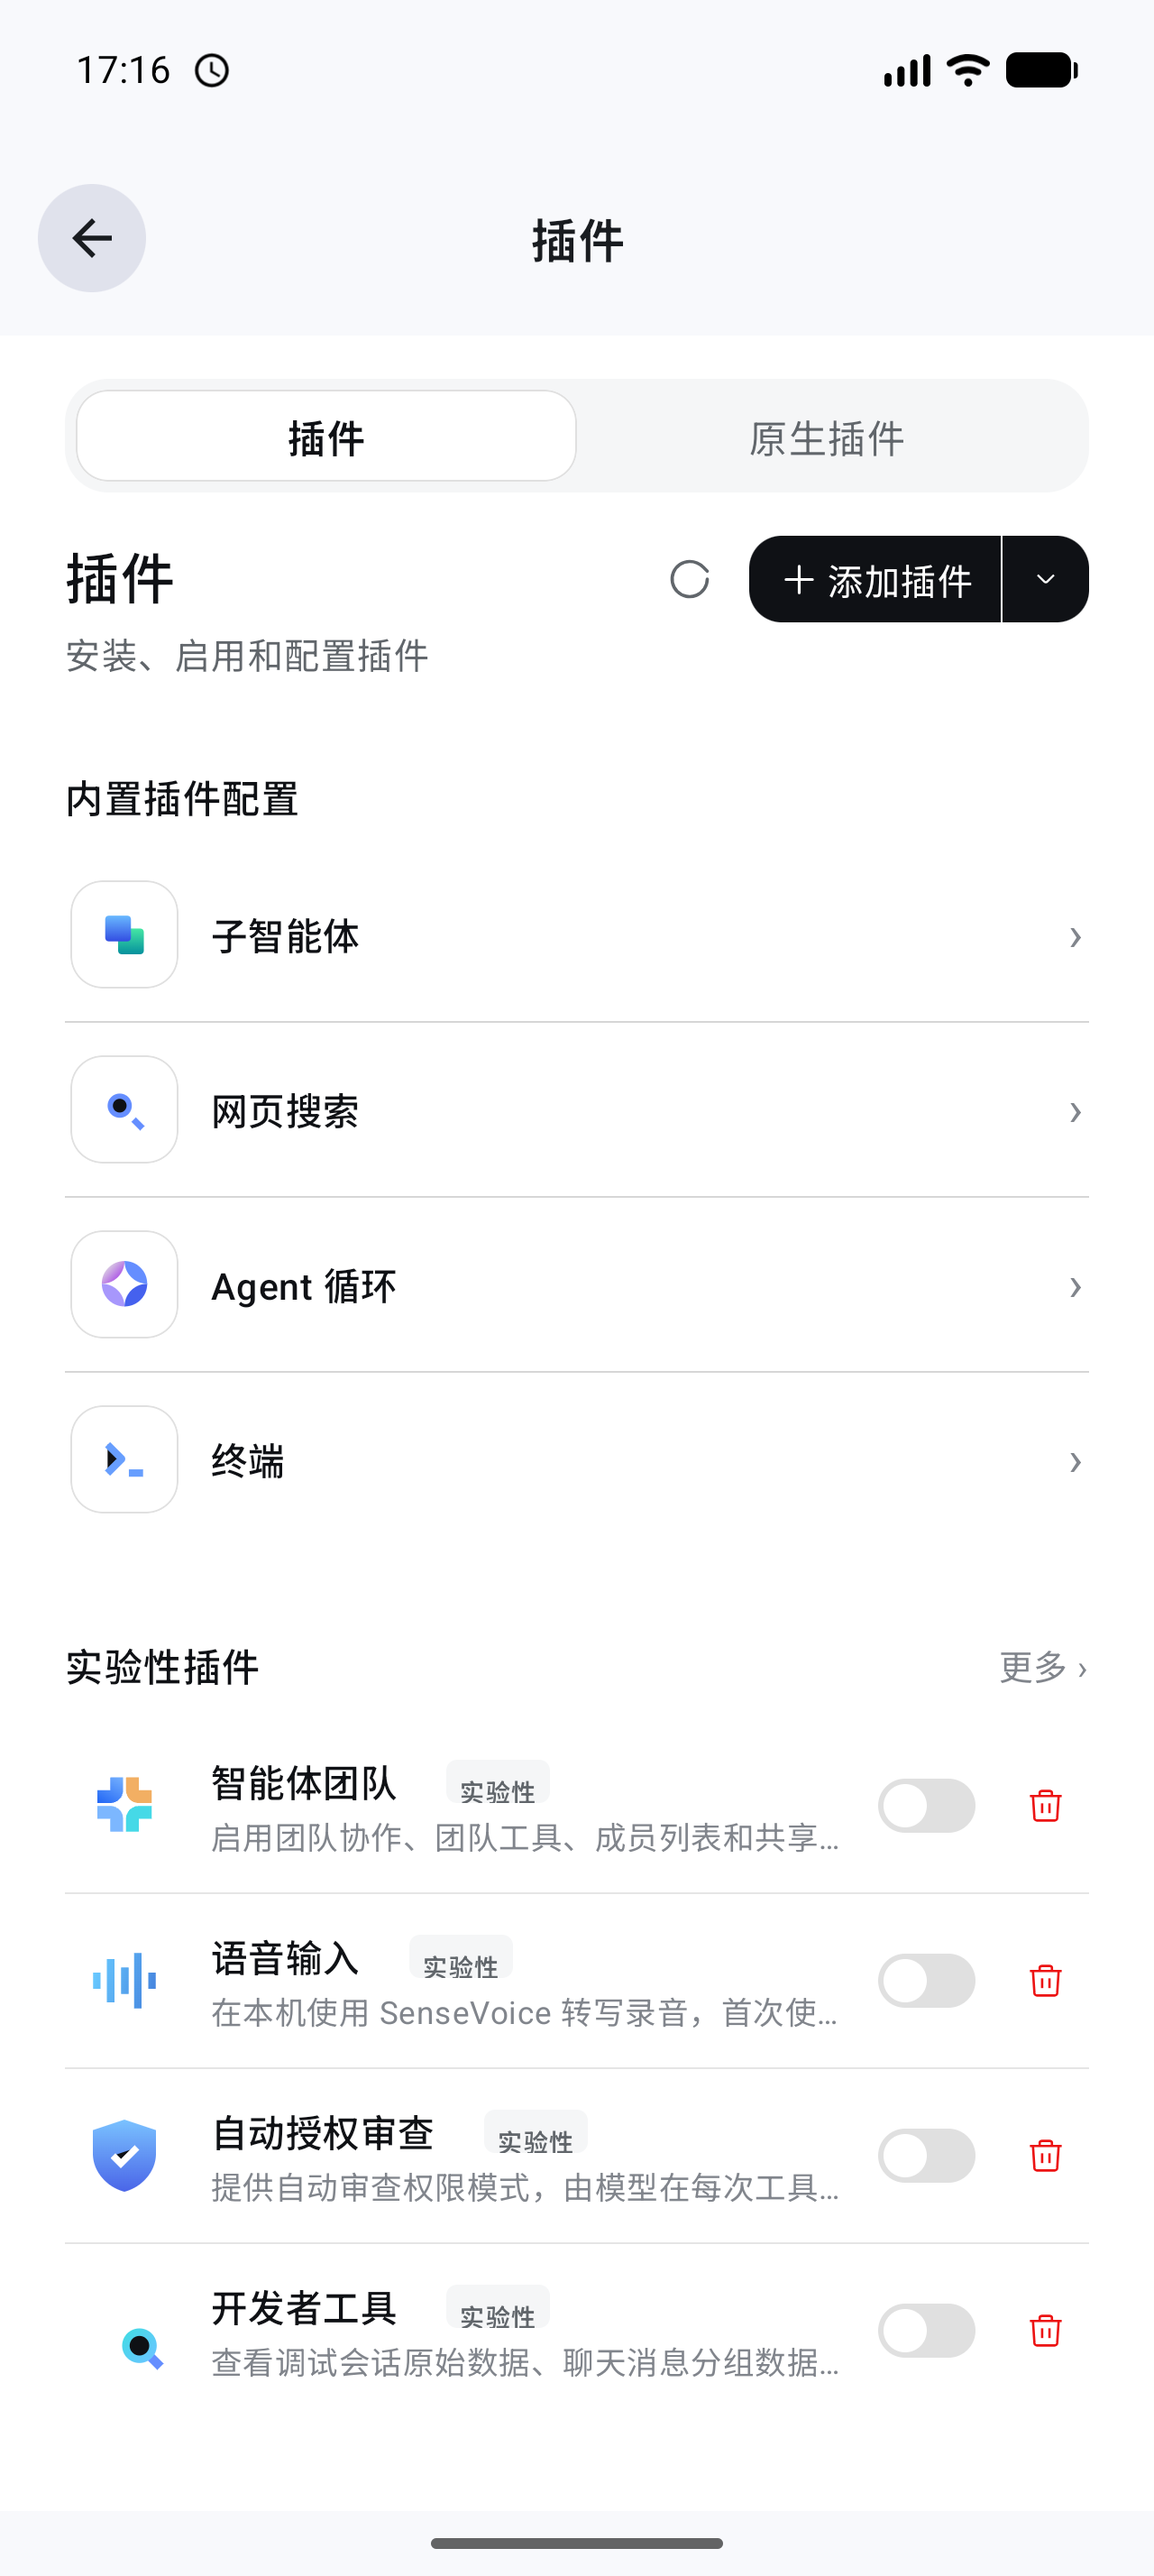
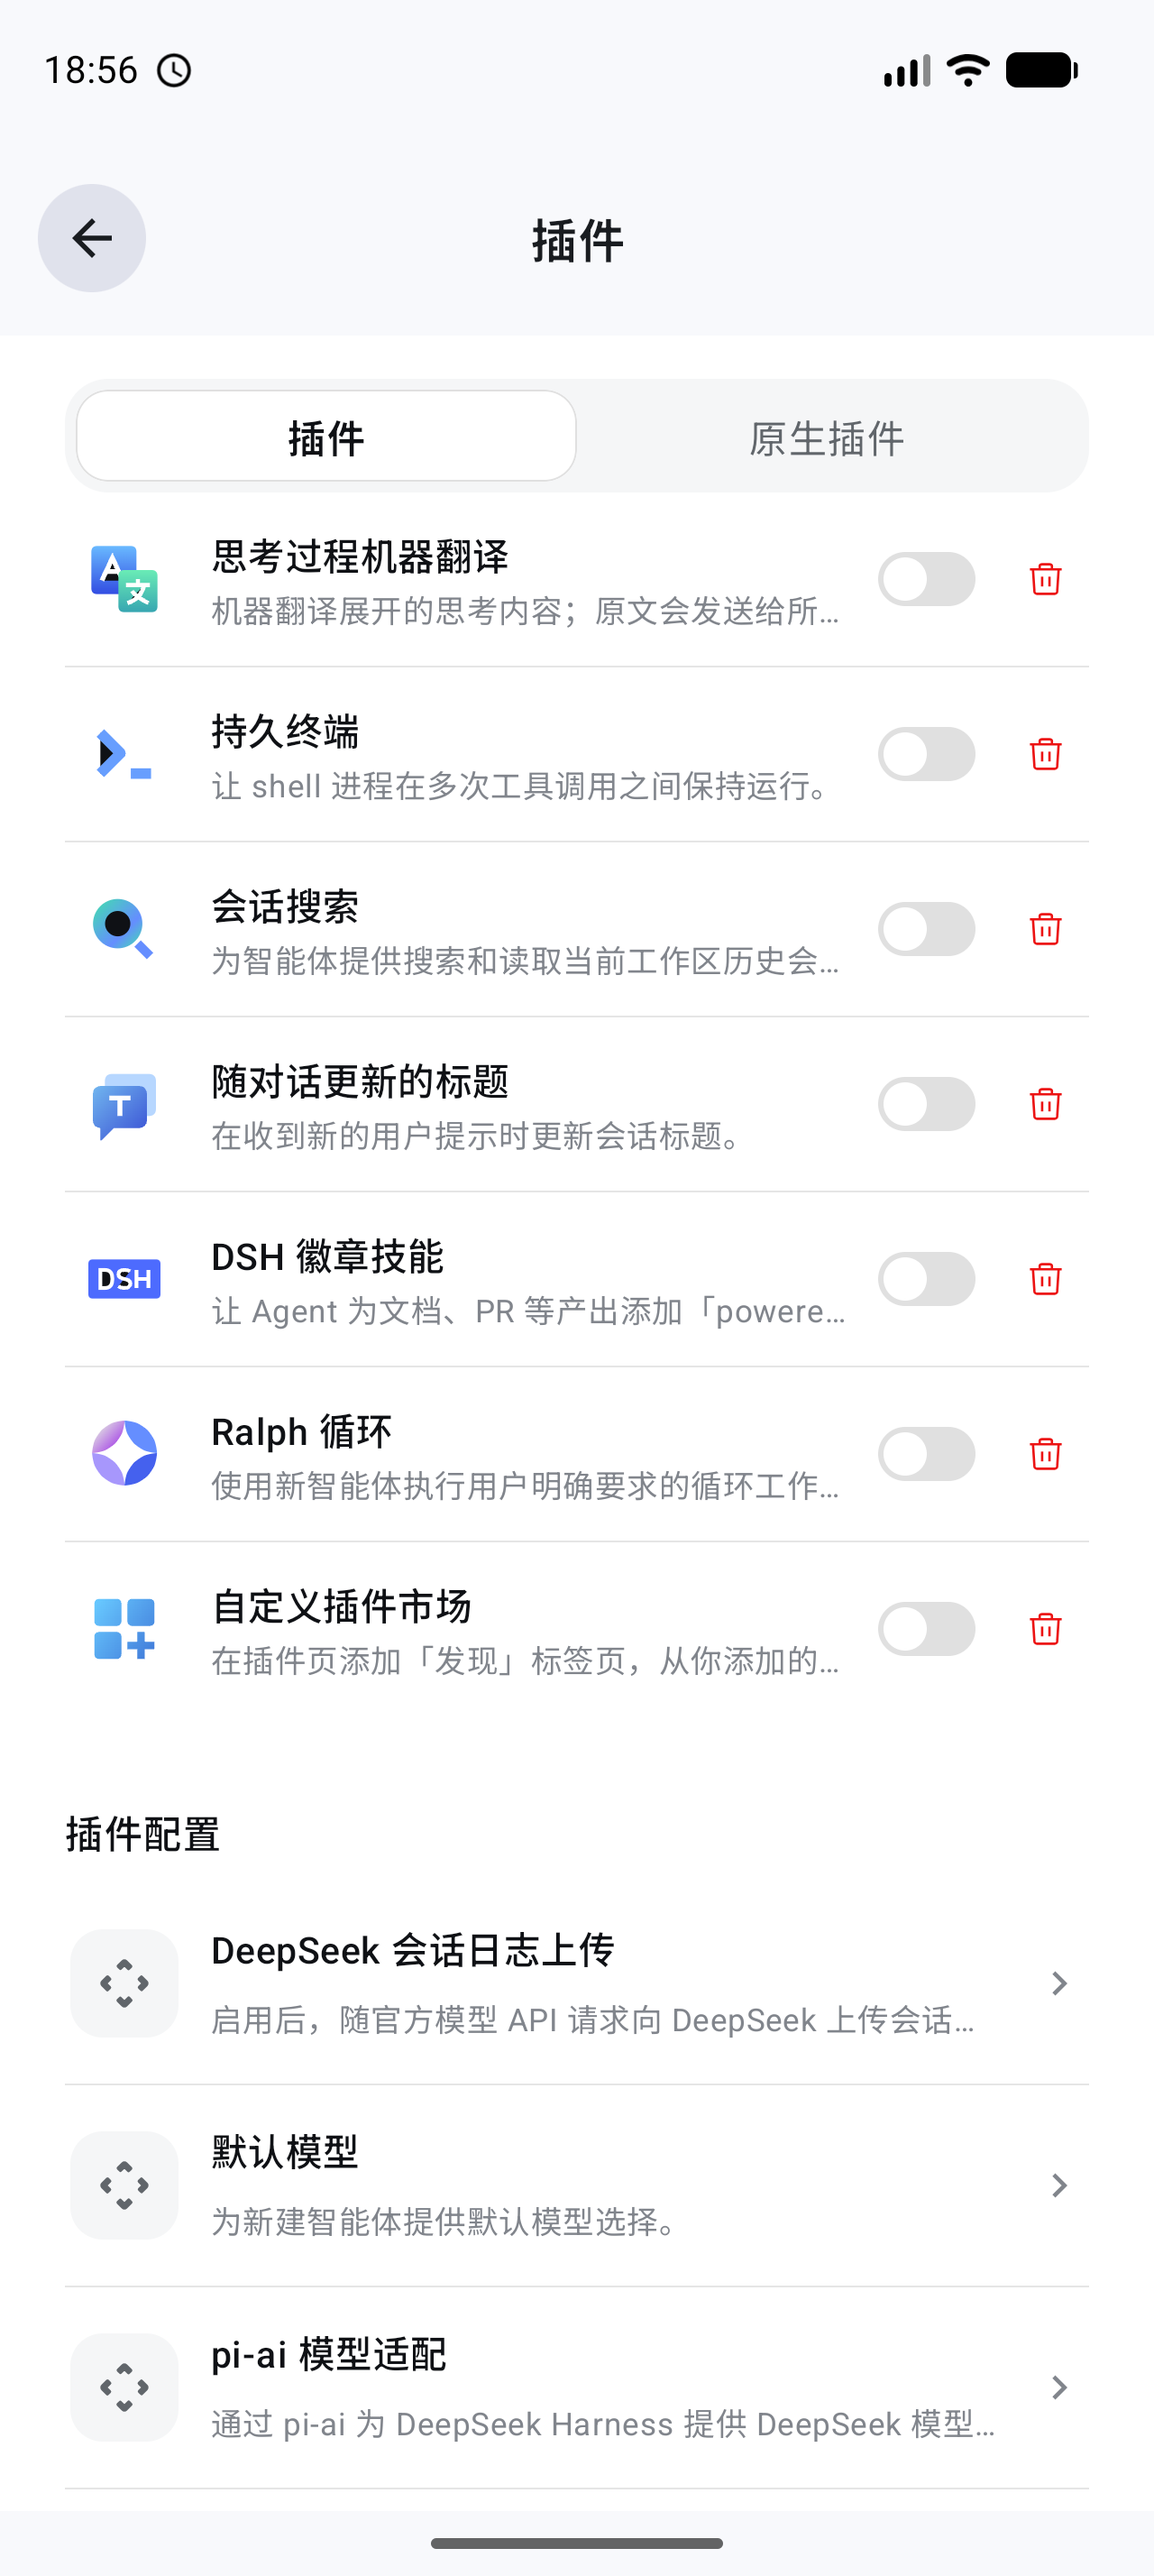
feat(plugins): more-plugins entry on the experimental group header
- 更多 › button on the experimental group header (official parity)
- MorePluginsScreen: a dedicated page listing the collapsed bundles
- remove the standalone 更多插件 section from the main list

diff --git a/app/src/main/kotlin/com/deepseek/dsh/PluginsScreen.kt b/app/src/main/kotlin/com/deepseek/dsh/PluginsScreen.kt
@@ -146,6 +146,8 @@ fun PluginsScreen(
     var addMenuOpen by remember { mutableStateOf(false) }
     var selectedPlugin by remember { mutableStateOf<SurfaceItem?>(null) }
     var selectedBundle by remember { mutableStateOf<PluginBundleItem?>(null) }
+    // 「更多插件」页面：从实验性分组头部的「更多 ›」进入。
+    var showMorePlugins by remember { mutableStateOf(false) }
     // 原生伴侣：详情页 + 停用集合 + 已装列表（merge 进已安装分组）。
     var selectedNativePlugin by remember {
         mutableStateOf<com.deepseek.dsh.plugin.nativehost.NativePluginItem?>(null)
@@ -251,6 +253,14 @@ fun PluginsScreen(
                     onBack = { selectedNativePlugin = null },
                     onUninstall = { selectedNativePlugin = null },
                 )
+            } else if (showMorePlugins) {
+                // 「更多插件」单独页面：实验性分组头部的「更多 ›」进入。
+                MorePluginsScreen(
+                    bundles = derivedMoreBundles,
+                    onBack = { showMorePlugins = false },
+                    onOpen = { selectedBundle = it },
+                    onToggle = { bundle, enabled -> onToggleBundle(bundle.packageName, enabled) },
+                )
             } else if (detail != null) {
                 PluginDetailContent(
                     item = detail,
@@ -337,13 +347,33 @@ fun PluginsScreen(
                     val experimentalBundles = derivedExperimentalBundles
                     if (experimentalBundles.isNotEmpty()) {
                         item(key = "experimental_group_head") {
-                            PluginsGroupTitle(
-                                text = "实验性插件",
-                                modifier = Modifier.padding(
-                                    top = PluginsDimens.SectionGap,
-                                    bottom = PluginsDimens.GroupTitleGap,
-                                ),
-                            )
+                            // 实验性分组头部：左标题，右「更多 ›」（官方页面一致——更多插件从这里进）。
+                            Row(
+                                modifier = Modifier
+                                    .fillMaxWidth()
+                                    .padding(
+                                        top = PluginsDimens.SectionGap,
+                                        bottom = PluginsDimens.GroupTitleGap,
+                                    ),
+                                horizontalArrangement = Arrangement.SpaceBetween,
+                                verticalAlignment = Alignment.CenterVertically,
+                            ) {
+                                Text(
+                                    text = "实验性插件",
+                                    color = colors.labelPrimary,
+                                    fontSize = 14.sp,
+                                    lineHeight = 22.sp,
+                                    fontWeight = FontWeight.Medium,
+                                )
+                                if (derivedMoreBundles.isNotEmpty()) {
+                                    Text(
+                                        text = "更多 ›",
+                                        color = colors.labelTertiary,
+                                        fontSize = 12.5.sp,
+                                        modifier = Modifier.clickable { showMorePlugins = true },
+                                    )
+                                }
+                            }
                         }
                         itemsIndexed(experimentalBundles, key = { index, bundle -> "experimental_${index}_${bundle.packageName}" }) { index, bundle ->
                             InstalledHostBundleRow(
@@ -357,31 +387,9 @@ fun PluginsScreen(
                         }
                     }
 
-                    // 默认收起的实验性插件：与官方页面一致，放在主列表之外的「更多插件」。
-                    if (derivedMoreBundles.isNotEmpty()) {
-                        item(key = "more_group_head") {
-                            PluginsGroupTitle(
-                                text = "更多插件",
-                                modifier = Modifier.padding(
-                                    top = PluginsDimens.SectionGap,
-                                    bottom = PluginsDimens.GroupTitleGap,
-                                ),
-                            )
-                        }
-                        itemsIndexed(
-                            items = derivedMoreBundles,
-                            key = { index, bundle -> "more_${index}_${bundle.packageName}" },
-                        ) { index, bundle ->
-                            InstalledHostBundleRow(
-                                bundle = bundle,
-                                showDivider = index != derivedMoreBundles.lastIndex,
-                                onOpen = { selectedBundle = bundle },
-                                onToggle = { enabled -> onToggleBundle(bundle.packageName, enabled) },
-                                onUninstall = { },
-                                locked = isLockedBundle(bundle.packageName),
-                            )
-                        }
-                    }
+                    // 默认收起的实验性插件：与官方页面一致，从实验性分组头部的「更多 ›」
+                    // 进入单独页面，不再在主列表里占一节。
+                    // （原「更多插件」整组已移除，见 MorePluginsScreen。）
 
                     // 插件声明的行级配置入口：与设置页同一套机制，按 slot 分派到插件页。
                     if (rowConfigSurfaces.isNotEmpty()) {
@@ -2063,6 +2071,63 @@ private fun PluginsInstallDialog(
             )
         },
     )
+}
+
+/**
+ * 「更多插件」页面：实验性分组头部的「更多 ›」进入，列全部默认收起的实验性插件。
+ * 与主列表同一套行样式。
+ */
+@Composable
+private fun MorePluginsScreen(
+    bundles: List<PluginBundleItem>,
+    onBack: () -> Unit,
+    onOpen: (PluginBundleItem) -> Unit,
+    onToggle: (PluginBundleItem, Boolean) -> Unit,
+) {
+    val colors = LocalDshPanelColors.current
+    Column(
+        modifier = Modifier
+            .fillMaxSize()
+            .background(colors.bgBase),
+    ) {
+        Row(
+            modifier = Modifier
+                .fillMaxWidth()
+                .padding(horizontal = 8.dp, vertical = 6.dp),
+            verticalAlignment = Alignment.CenterVertically,
+        ) {
+            Text(
+                text = "‹ 实验性插件",
+                color = colors.labelPrimary,
+                fontSize = 15.sp,
+                modifier = Modifier
+                    .clickable(onClick = onBack)
+                    .padding(8.dp),
+            )
+        }
+        LazyColumn(
+            modifier = Modifier.fillMaxSize(),
+            contentPadding = PaddingValues(
+                start = PluginsDimens.PageHorizontal,
+                end = PluginsDimens.PageHorizontal,
+                bottom = PluginsDimens.PageBottom,
+            ),
+        ) {
+            itemsIndexed(
+                items = bundles,
+                key = { index, bundle -> "more_page_${index}_${bundle.packageName}" },
+            ) { index, bundle ->
+                InstalledHostBundleRow(
+                    bundle = bundle,
+                    showDivider = index != bundles.lastIndex,
+                    onOpen = { onOpen(bundle) },
+                    onToggle = { enabled -> onToggle(bundle, enabled) },
+                    onUninstall = { },
+                    locked = isLockedBundle(bundle.packageName),
+                )
+            }
+        }
+    }
 }
 
 
